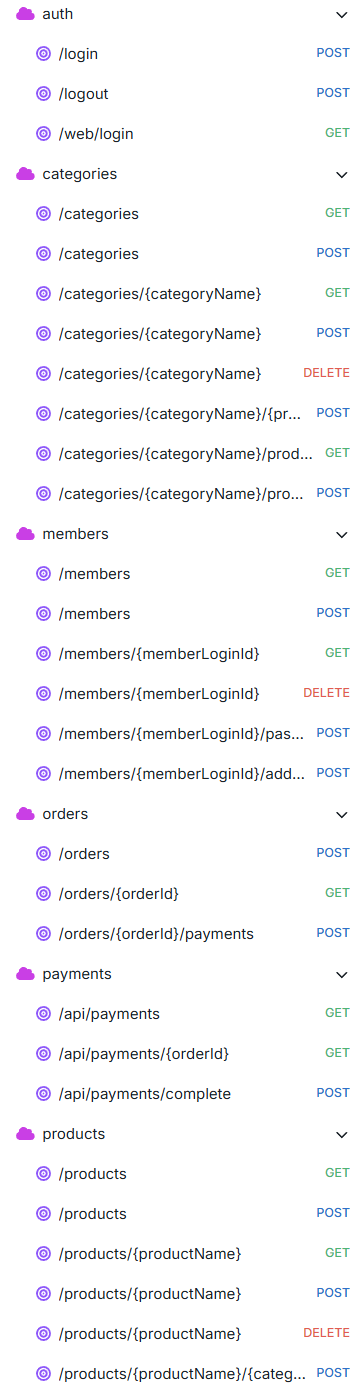
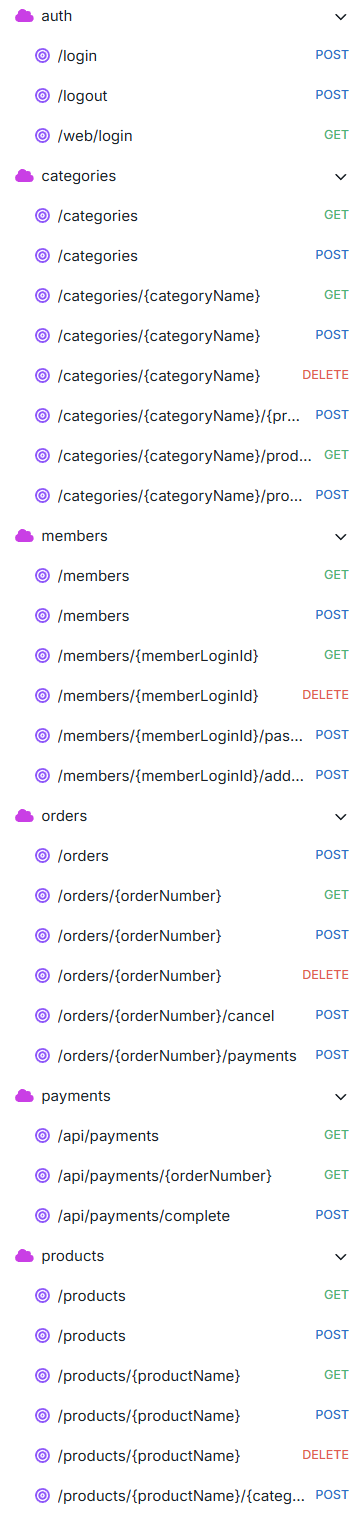
주문 Soft Delete 완료, 설계도 수정, 쿼리 중복 및 n+1 문제 해결 시작

Changed region(s): [[0.0303, 0.0, 0.8485, 1.0], [0.8485, 0.031, 0.9697, 0.8055], [0.8485, 0.8365, 0.9697, 0.9914]]

diff --git a/src/main/java/lsk/commerce/domain/Order.java b/src/main/java/lsk/commerce/domain/Order.java
@@ -1,13 +1,11 @@
 package lsk.commerce.domain;
 
 import com.aventrix.jnanoid.jnanoid.NanoIdUtils;
-import com.fasterxml.jackson.annotation.JsonIgnore;
 import jakarta.persistence.*;
 import lombok.Getter;
 import lombok.NoArgsConstructor;
 import org.hibernate.annotations.SQLDelete;
 import org.hibernate.annotations.SQLRestriction;
-import org.hibernate.annotations.SoftDelete;
 
 import java.security.SecureRandom;
 import java.time.LocalDateTime;
@@ -27,14 +25,13 @@ import static lsk.commerce.domain.PaymentStatus.*;
 @Table(name = "orders")
 @Getter
 @NoArgsConstructor(access = PROTECTED)
-@SQLRestriction("is_deleted = false")
-@SQLDelete(sql = "UPDATE orders SET is_deleted = true WHERE order_id = ?")
+@SQLRestriction("deleted = false")
+@SQLDelete(sql = "UPDATE orders SET deleted = true WHERE order_id = ?")
 public class Order {
 
     private static final SecureRandom SECURE_RANDOM = new SecureRandom();
     private static final char[] NUMBER_ALPHABET = "23456789ABCDEFGHJKLMNPQRSTUVWXYZabcdefghijkmnoqprstuvwxyz".toCharArray();
 
-    @JsonIgnore
     @Id @GeneratedValue
     @Column(name = "order_id")
     private Long id;
@@ -45,7 +42,7 @@ public class Order {
     @JoinColumn(name = "member_id")
     private Member member;
 
-    @OneToOne(fetch = LAZY, cascade = PERSIST)
+    @OneToOne(fetch = LAZY, cascade = ALL, orphanRemoval = true)
     @JoinColumn(name = "delivery_id")
     private Delivery delivery;
 
@@ -65,7 +62,17 @@ public class Order {
     @Enumerated(STRING)
     private OrderStatus orderStatus;
 
-    private boolean isDeleted = false;
+    private boolean deleted = false;
+
+    private void addDelivery(Delivery delivery) {
+        this.delivery = delivery;
+        this.delivery.setOrder(this);
+    }
+
+    private void addMember(Member member) {
+        this.member = member;
+        this.member.getOrders().add(this);
+    }
 
     //OrderProduct에 order를 넣기 위해 양방향 매핑 추가
     private void addOrderProduct(OrderProduct orderProduct) {
@@ -77,8 +84,8 @@ public class Order {
     public static Order createOrder(Member member, Delivery delivery, List<OrderProduct> orderProducts) {
         Order order = new Order();
 
-        member.addOrder(order);
-        order.setDelivery(delivery);
+        order.addMember(member);
+        order.addDelivery(delivery);
         order.totalAmount = 0;
         for (OrderProduct orderProduct : orderProducts) {
             order.addOrderProduct(orderProduct);
@@ -113,20 +120,6 @@ public class Order {
     //Payment에서 사용해서 protected
     protected void setPayment(Payment payment) {
         this.payment = payment;
-    }
-
-    protected void setDelivery(Delivery delivery) {
-        this.delivery = delivery;
-        this.delivery.setOrder(this);
-    }
-
-    protected void setMember(Member member) {
-        this.member = member;
-    }
-
-    //결제 api 추가 전, 테스트용
-    public void testPaid() {
-        this.orderStatus = PAID;
     }
 
     public void cancel() {

diff --git a/src/main/java/lsk/commerce/service/MemberService.java b/src/main/java/lsk/commerce/service/MemberService.java
@@ -8,6 +8,7 @@ import org.springframework.stereotype.Service;
 import org.springframework.transaction.annotation.Transactional;
 
 import java.util.List;
+import java.util.Optional;
 
 @Service
 @Transactional
@@ -36,7 +37,8 @@ public class MemberService {
 
     @Transactional(readOnly = true)
     public Member findMemberByLoginId(String loginId) {
-        return memberRepository.findByLoginId(loginId);
+        return memberRepository.findByLoginId(loginId)
+                .orElseThrow(() -> new IllegalArgumentException("아이디 또는 비밀번호가 틀렸습니다."));
     }
 
     @Transactional(readOnly = true)
@@ -49,12 +51,12 @@ public class MemberService {
     }
 
     public void changePassword(String memberLoginId, String newPassword) {
-        Member member = memberRepository.findByLoginId(memberLoginId);
+        Member member = findMemberByLoginId(memberLoginId);
         member.changePassword(newPassword);
     }
 
     public void changeAddress(String memberLoginId, String newCity, String newStreet, String newZipcode) {
-        Member member = memberRepository.findByLoginId(memberLoginId);
+        Member member = findMemberByLoginId(memberLoginId);
         member.changeAddress(newCity, newStreet, newZipcode);
     }
 
@@ -64,8 +66,7 @@ public class MemberService {
     }
 
     private void validateMember(Member member) {
-        Member findMembers = memberRepository.findByLoginId(member.getLoginId());
-        if (findMembers != null) {
+        if (memberRepository.existsByLoginId(member.getLoginId())) {
             throw new IllegalStateException("이미 사용 중인 아이디입니다.");
         }
     }

diff --git a/src/main/java/lsk/commerce/domain/Delivery.java b/src/main/java/lsk/commerce/domain/Delivery.java
@@ -3,9 +3,12 @@ package lsk.commerce.domain;
 import jakarta.persistence.*;
 import lombok.Getter;
 import lombok.NoArgsConstructor;
+import org.hibernate.annotations.SQLDelete;
+import org.hibernate.annotations.SQLRestriction;
 
 import java.time.LocalDateTime;
 
+import static jakarta.persistence.CascadeType.*;
 import static jakarta.persistence.EnumType.*;
 import static jakarta.persistence.FetchType.*;
 import static lombok.AccessLevel.*;
@@ -14,13 +17,15 @@ import static lsk.commerce.domain.DeliveryStatus.*;
 @Entity
 @Getter
 @NoArgsConstructor(access = PROTECTED)
+@SQLRestriction("deleted = false")
+@SQLDelete(sql = "UPDATE delivery SET deleted = true WHERE delivery_id = ?")
 public class Delivery {
 
     @Id @GeneratedValue
     @Column(name = "delivery_id")
     private Long id;
 
-    @OneToOne(mappedBy = "delivery", fetch = LAZY)
+    @OneToOne(mappedBy = "delivery", fetch = LAZY, cascade = ALL)
     private Order order;
 
     @Enumerated(STRING)
@@ -34,6 +39,8 @@ public class Delivery {
 
     @Embedded
     private Address address;
+
+    private boolean deleted = false;
 
     protected void setOrder(Order order) {
         this.order = order;
@@ -63,15 +70,5 @@ public class Delivery {
 
     protected void setDeliveryStatus(DeliveryStatus deliveryStatus) {
         this.deliveryStatus = deliveryStatus;
-    }
-
-    //결제 api 추가 전, 테스트용
-    public void testShipped() {
-        this.deliveryStatus = SHIPPED;
-    }
-
-    //결제 api 추가 전, 테스트용
-    public void testDelivered() {
-        this.deliveryStatus = DELIVERED;
     }
 }

diff --git a/src/main/java/lsk/commerce/repository/MemberRepository.java b/src/main/java/lsk/commerce/repository/MemberRepository.java
@@ -6,6 +6,7 @@ import lombok.RequiredArgsConstructor;
 import org.springframework.stereotype.Repository;
 
 import java.util.List;
+import java.util.Optional;
 
 @Repository
 @RequiredArgsConstructor
@@ -21,12 +22,11 @@ public class MemberRepository {
         return em.find(Member.class, memberId);
     }
 
-    public Member findByLoginId(String loginId) {
+    public Optional<Member> findByLoginId(String loginId) {
         return em.createQuery("select m from Member m where m.loginId = :loginId", Member.class)
                 .setParameter("loginId", loginId)
                 .getResultStream()
-                .findFirst()
-                .orElse(null);
+                .findFirst();
     }
 
     public List<Member> findAll() {
@@ -36,5 +36,11 @@ public class MemberRepository {
 
     public void delete(Member member) {
         em.remove(member);
+    }
+
+    public boolean existsByLoginId(String loginId) {
+        return em.createQuery("select count(m) > 0 from Member m where m.loginId = :loginId", Boolean.class)
+                .setParameter("loginId", loginId)
+                .getSingleResult();
     }
 }

diff --git a/src/main/java/lsk/commerce/domain/OrderProduct.java b/src/main/java/lsk/commerce/domain/OrderProduct.java
@@ -4,8 +4,8 @@ import lombok.EqualsAndHashCode;
 import lombok.NoArgsConstructor;
 import jakarta.persistence.*;
 import lombok.Getter;
-
-import java.util.ArrayList;
+import org.hibernate.annotations.SQLDelete;
+import org.hibernate.annotations.SQLRestriction;
 
 import static jakarta.persistence.FetchType.*;
 import static lombok.AccessLevel.*;
@@ -14,6 +14,8 @@ import static lombok.AccessLevel.*;
 @Getter
 @EqualsAndHashCode
 @NoArgsConstructor(access = PROTECTED)
+@SQLRestriction("deleted = false")
+@SQLDelete(sql = "UPDATE order_product SET deleted = true WHERE order_product_id = ?")
 public class OrderProduct {
 
     @Id @GeneratedValue
@@ -30,6 +32,8 @@ public class OrderProduct {
 
     private int count;
     private int orderPrice;
+
+    private boolean deleted = false;
 
     public static OrderProduct createOrderProduct(Product product, int count) {
         OrderProduct orderProduct = new OrderProduct();

diff --git a/src/main/java/lsk/commerce/controller/AuthController.java b/src/main/java/lsk/commerce/controller/AuthController.java
@@ -25,9 +25,6 @@ public class AuthController {
     @PostMapping("/login")
     public MemberLoginResponse login(@Valid MemberLoginRequest loginRequest, HttpServletResponse response) {
         Member loginMember = authService.login(loginRequest.getLoginId(), loginRequest.getPassword());
-        if (memberService.findMemberByLoginId(loginRequest.getLoginId()) == null || loginMember == null) {
-            throw new IllegalArgumentException("로그인에 실패했습니다.");
-        }
 
         String token = jwtProvider.createToken(loginMember);
 

diff --git a/src/main/java/lsk/commerce/service/OrderService.java b/src/main/java/lsk/commerce/service/OrderService.java
@@ -116,7 +116,9 @@ public class OrderService {
     }
 
     public void deleteOrder(Order order) {
-        if (order.getDelivery().getDeliveryStatus() != DeliveryStatus.DELIVERED) {
+        if (order.getOrderStatus() == CREATED) {
+            throw new IllegalStateException("주문을 취소해야 삭제할 수 있습니다.");
+        } else if (order.getOrderStatus() == PAID) {
             throw new IllegalStateException("배송이 완료돼야 삭제할 수 있습니다.");
         }
 

diff --git a/src/main/java/lsk/commerce/service/AuthService.java b/src/main/java/lsk/commerce/service/AuthService.java
@@ -15,7 +15,7 @@ public class AuthService {
     public Member login(String loginId, String password) {
         Member member = memberService.findMemberByLoginId(loginId);
         if (!member.getPassword().equals(password)) {
-            return null;
+            throw new IllegalArgumentException("아이디 또는 비밀번호가 틀렸습니다.");
         }
 
         return member;

diff --git a/src/main/java/lsk/commerce/domain/Member.java b/src/main/java/lsk/commerce/domain/Member.java
@@ -41,11 +41,6 @@ public class Member {
         this.address = new Address(city, street, zipcode);
     }
 
-    protected void addOrder(Order order) {
-        orders.add(order);
-        order.setMember(this);
-    }
-
     public void setAdmin() {
         this.grade = ADMIN;
     }

diff --git a/docs/design/api.md b/docs/design/api.md
@@ -47,20 +47,22 @@
 
   POST /orders 주문 생성
 
-  GET /orders/{orderId} 주문 조회
+  GET /orders/{orderNumber} 주문 조회
 
-  POST /orders/{orderId} 주문 수정
+  POST /orders/{orderNumber} 주문 수정
 
-  DELETE /orders/{orderId} 주문 취소
+  DELETE /orders/{orderNumber} 주문 삭제
 
-  POST /orders/{orderId}/payments 결제 요청
+  POST /orders/{orderNumber} 주문 취소
+
+  POST /orders/{orderNumber}/payments 결제 요청
 
 
 - Payment
 
   GET /api/payments 결제 화면
 
-  GET /api/payments/{orderId} 주문 정보 전달
+  GET /api/payments/{orderNumber} 주문 정보 전달
 
   POST /api/payments/complete 결제 완료 처리
 
@@ -103,3 +105,11 @@
 - POST /categories/{categoryName}/{productName}, /categories/{categoryName}/products, /products/{productName}/{categoryName} 추가
 
   상품과 카테고리 관리를 유동적으로 하기 위해 카테고리에서 상품 제거, 상품을 카테고리에 등록 추가
+
+- {orderId} -> {orderNumber} 변경
+
+  PK가 아닌 키로 변경
+
+- DELETE /orders/{orderNumber}를 주문 삭제로 변경, POST /orders/{orderNumber}/cancel을 주문 취소로 추가
+
+  주문 삭제는 Soft Delete로 DB에는 남아있지만 사용자가 조회할 때 안 보이게 하는 기능이고, 주문 취소는 결제 전 주문을 취소하는 기능이다.

diff --git a/docs/issues/controller_failed.md b/docs/issues/controller_failed.md
@@ -139,3 +139,11 @@
   delivery의 cascade를 PERSIST로 변경 -> org.hibernate.TransientObjectException: persistent instance references an unsaved transient instance of 'lsk.commerce.domain.Order' (save the transient instance before flushing)
 
   Member, Delivery Order 연관 메서드 생성 -> 그대로
+
+  Delivery, OrderProduct에도 @SQLRestriction, @SQLDelete 사용 -> 그대로
+
+  해결: delivery에서도 order로 cascade 설정
+  
+  해결 이후 시도: OrderProduct에서는 @SQLRestriction, @SQLDelete를 빼도 정상적으로 작동하지만, Delivery에는 @SQLRestriction, @SQLDelete를 빼면 예외가 발생한다.
+  
+  결론: @OneToOne 매핑은 Repository를 사용하지 않으면 연관관계의 주인이 아니여도 cascade를 양쪽에 써야된다.

diff --git a/docs/design/domain.md b/docs/design/domain.md
@@ -53,3 +53,11 @@
 - 결제에서 paymentId 추가
 
   PK가 아닌 결제 번호를 사용하기 위해 추가
+
+- 주문에서 orderNumber 추가
+
+  PK가 아닌 주문 번호를 사용하기 위해 추가
+
+- 주문, 배송, 주문 상품에서 deleted 추가
+
+  Soft Delete하기 위해 추가
